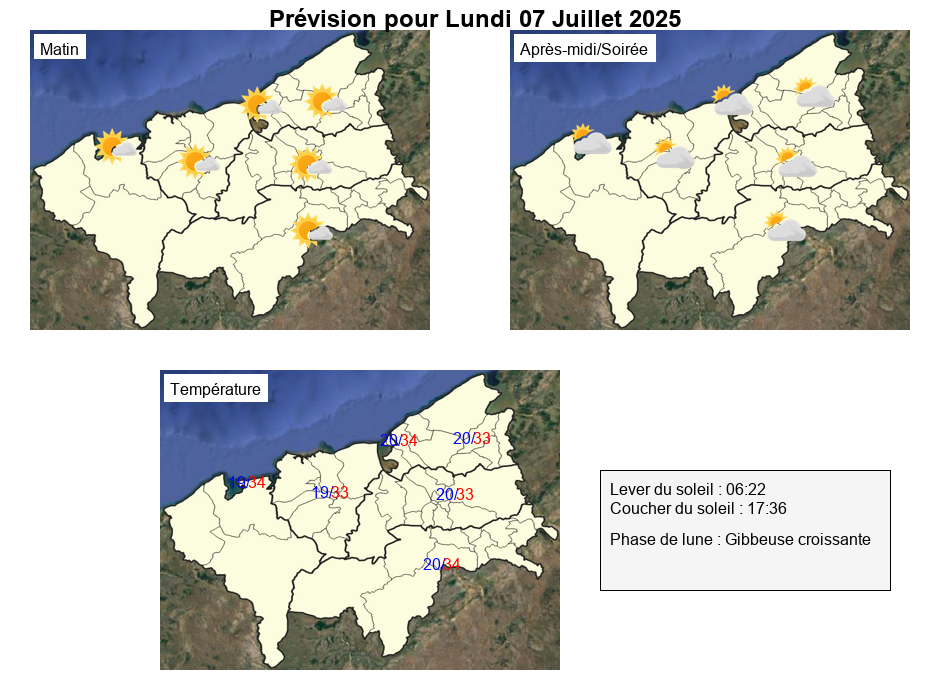
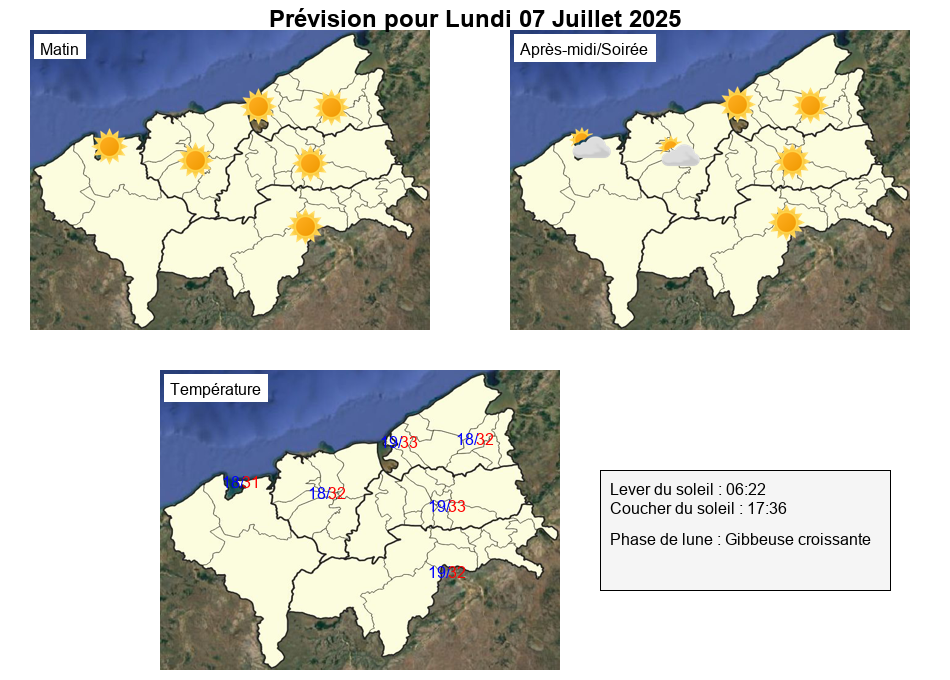
forecast on 07/07/2025

diff --git a/script.js b/script.js
@@ -51,20 +51,20 @@ const MarineMessages = [
     {
         message: `**Bulletin marine cotière**
 
-BULLETIN DE PRÉVISION MARINE CÔTIÈRE JUSQU’À 50 MILLES NAUTIQUES AU LARGE ÉTABLI PAR MÉTÉO MADAGASCAR LE 05/07/2025 A 10 TU, 
-VALABLE LE 05/07/2025 A 10 TU JUSQU’AU 06/07/2025 A 10 TU. 
+BULLETIN DE PRÉVISION MARINE CÔTIÈRE JUSQU’À 50 MILLES NAUTIQUES AU LARGE 
+ÉTABLI PAR MÉTÉO MADAGASCAR LE 07/07/2025 A 10 TU, 
+VALABLE LE 07/07/2025 A 10 TU JUSQU’AU 08/07/2025 A 10 TU. 
 LE VENT DONNE DANS CE BULLETIN CORRESPOND AU VENT MOYEN PRÉVU EN NŒUD ET LA HAUTEUR DE VAGUE REPRÉSENTE LA HAUTEUR SIGNIFICATIVE (H1/3) EN MÈTRES.
 
 **situation generale**: 
-BASSES PRESSIONS SUR L’EXTRÊME NORD-EST DE LA ZONE ;
-ANTICYCLONE 1035 HPA CENTRE PAR 34S/64E ;
-FRONT FROID AXE PAR 25S/37E, 27S/40E ET 31S/42E.
+BASSES PRESSIONS AU NORD DE 08S ;
+FRONT FROID AXE PAR 24S/36E, 27S/40E ET 31S/45E.
 
 
-CAP ST ANDRÉ A ANALALAVA
-VENT : Sud-Est 10/15.
-ÉTAT DE LA MER : Peu agitée à agitée. Hauteur des vagues 1/1.5m.
-TEMPS : Peu nuageux.`,
+**CAP ST ANDRÉ A ANALALAVA**
+**VENT **: Sud-Est 10/15, atteignant localement 20 le matin.
+**ÉTAT DE LA MER** : Peu agitée. Hauteur des vagues 0.5/1m.
+**TEMPS** : Peu nuageux.`,
         image: 'Image_marine_cotiere_SITEWEB-MHJ.png'
     },
 
@@ -72,16 +72,16 @@ TEMPS : Peu nuageux.`,
         message: `**BULLETIN MARINE HAUTE MER**
 
 BULLETIN DE PRÉVISION POUR LA MARINE DESTINE A LA NAVIGATION HAUTE MER (DE 10°S A 30°S / COTES AFRICAINES A 60°E ET DE 05°S A 30°S / 60°E A 70°E) 
-ÉTABLI PAR MÉTÉO MADAGASCAR LE 05/07/2025 A 10 TU, VALABLE LE 05/07/2025 A 10 TU JUSQU’AU 06/07/2025 A 10 TU. 
+ÉTABLI PAR MÉTÉO MADAGASCAR LE 07/07/2025 A 10 TU, VALABLE LE 07/07/2025 A 10 TU JUSQU’AU 08/07/2025 A 10 TU. 
 LE VENT DONNE DANS CE BULLETIN CORRESPOND AU VENT MOYEN EN NŒUD ET LA HAUTEUR DE VAGUE REPRÉSENTE LA HAUTEUR SIGNIFICATIVE (H1/3) N MÈTRES.
 
 **Avis**: 
 NEANT.
 
 10S/20S :
-**VENT **: EST A SUD-EST 05/10 LOCALEMENT 15 AU NORD DE 15S, DEVENANT VARIABLE 05/10 AU SUD DE 15S EN FIN DE PÉRIODE.
+**VENT **: SUD A SUD-EST 10/15 LOCALEMENT 20.
 **ÉTAT DE LA MER** : PEU AGITÉE A AGITÉE.
-**TEMPS** : PARTIELLEMENT NUAGEUX A ENSOLEILLÉ.
+**TEMPS** : PARTIELLEMENT NUAGEUX.
         `,
         image: 'Image_marine_haute_mer_SITEWEB.png'
     }
@@ -90,20 +90,20 @@ NEANT.
 
 
     const templates = [
-        `Temps ensoleillé le matin, peu nuageux l'après-midi.  
-**Vents** : Vents modéré à fort du secteur ESE  
-**Températures minimales** : entre 16 et 18 °C  
-**Températures maximales** : entre 31 et 32 °C.`,
-
-        `Temps ensoleillé le matin, peu nuageux et nuageux à l'Est de la région durant l'après-midi.  
-**Vents** : Vents modéré à fort de secteur ESE  
-**Températures minimales** : entre 19 et 20 °C  
+        `Temps ensoleillé le matin, nuageux l'après-midi à l'Ouest de la région.  
+**Vents** : Vents modéré du secteur ESE  
+**Températures minimales** : entre 18 et 19 °C  
 **Températures maximales** : entre 32 et 33 °C.`,
 
-        `Temps peu nuageux le matin, et nuageux l'après-midi et le soir.  
+        `Temps peu nuageux toute la journée dans l"ensemble de la région.  
 **Vents** : Vents modéré de secteur ESE  
-**Températures minimales** : entre 19 et 20 °C  
-**Températures maximales** : entre 33 et 34 °C.`
+**Températures minimales** : entre 20 et 21 °C  
+**Températures maximales** : entre 32 et 33 °C.`,
+
+        `Temps ensoleillé le matin, et nuageux l'après-midi et le soir.  
+**Vents** : Vents modéré de secteur ESE  
+**Températures minimales** : entre 20 et 21 °C  
+**Températures maximales** : entre 32 et 34 °C.`
 
     ];
 
